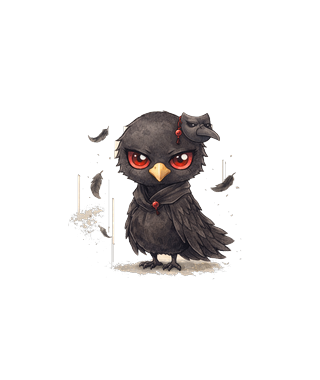
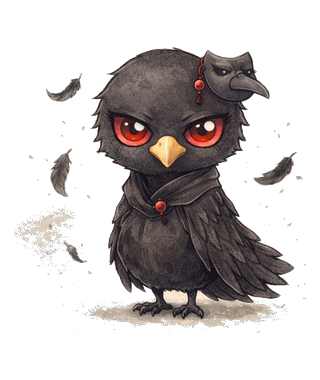
Enlarge PNG characters: tighter crop, 92% fill, bigger SVG wrapper

diff --git a/characters.js b/characters.js
@@ -44,7 +44,7 @@ const CHARACTERS = {
 <svg width="320" height="380" viewBox="0 0 320 380" xmlns="http://www.w3.org/2000/svg" xmlns:xlink="http://www.w3.org/1999/xlink">
   <g class="char-float">
     <g class="char-body">
-      <image href="/chars/shiro.png" x="40" y="30" width="240" height="320"/>
+      <image href="/chars/shiro.png" x="10" y="0" width="300" height="380"/>
     </g>
   </g>
 </svg>`
@@ -66,7 +66,7 @@ const CHARACTERS = {
 <svg width="320" height="380" viewBox="0 0 320 380" xmlns="http://www.w3.org/2000/svg" xmlns:xlink="http://www.w3.org/1999/xlink">
   <g class="char-float">
     <g class="char-body">
-      <image href="/chars/karasu.png" x="40" y="30" width="240" height="320"/>
+      <image href="/chars/karasu.png" x="10" y="0" width="300" height="380"/>
     </g>
   </g>
 </svg>`
@@ -88,7 +88,7 @@ const CHARACTERS = {
 <svg width="320" height="380" viewBox="0 0 320 380" xmlns="http://www.w3.org/2000/svg" xmlns:xlink="http://www.w3.org/1999/xlink">
   <g class="char-float">
     <g class="char-body">
-      <image href="/chars/kyubi.png" x="40" y="30" width="240" height="320"/>
+      <image href="/chars/kyubi.png" x="10" y="0" width="300" height="380"/>
     </g>
   </g>
 </svg>`
@@ -110,7 +110,7 @@ const CHARACTERS = {
 <svg width="320" height="380" viewBox="0 0 320 380" xmlns="http://www.w3.org/2000/svg" xmlns:xlink="http://www.w3.org/1999/xlink">
   <g class="char-float">
     <g class="char-body">
-      <image href="/chars/tanuki.png" x="40" y="30" width="240" height="320"/>
+      <image href="/chars/tanuki.png" x="10" y="0" width="300" height="380"/>
     </g>
   </g>
 </svg>`
@@ -132,7 +132,7 @@ const CHARACTERS = {
 <svg width="320" height="380" viewBox="0 0 320 380" xmlns="http://www.w3.org/2000/svg" xmlns:xlink="http://www.w3.org/1999/xlink">
   <g class="char-float">
     <g class="char-body">
-      <image href="/chars/koi.png" x="40" y="30" width="240" height="320"/>
+      <image href="/chars/koi.png" x="10" y="0" width="300" height="380"/>
     </g>
   </g>
 </svg>`
@@ -154,7 +154,7 @@ const CHARACTERS = {
 <svg width="320" height="380" viewBox="0 0 320 380" xmlns="http://www.w3.org/2000/svg" xmlns:xlink="http://www.w3.org/1999/xlink">
   <g class="char-float">
     <g class="char-body">
-      <image href="/chars/kappa.png" x="40" y="30" width="240" height="320"/>
+      <image href="/chars/kappa.png" x="10" y="0" width="300" height="380"/>
     </g>
   </g>
 </svg>`
@@ -176,7 +176,7 @@ const CHARACTERS = {
 <svg width="320" height="380" viewBox="0 0 320 380" xmlns="http://www.w3.org/2000/svg" xmlns:xlink="http://www.w3.org/1999/xlink">
   <g class="char-float">
     <g class="char-body">
-      <image href="/chars/kodama.png" x="40" y="30" width="240" height="320"/>
+      <image href="/chars/kodama.png" x="10" y="0" width="300" height="380"/>
     </g>
   </g>
 </svg>`
@@ -198,7 +198,7 @@ const CHARACTERS = {
 <svg width="320" height="380" viewBox="0 0 320 380" xmlns="http://www.w3.org/2000/svg" xmlns:xlink="http://www.w3.org/1999/xlink">
   <g class="char-float">
     <g class="char-body">
-      <image href="/chars/oni.png" x="40" y="30" width="240" height="320"/>
+      <image href="/chars/oni.png" x="10" y="0" width="300" height="380"/>
     </g>
   </g>
 </svg>`
@@ -220,7 +220,7 @@ const CHARACTERS = {
 <svg width="320" height="380" viewBox="0 0 320 380" xmlns="http://www.w3.org/2000/svg" xmlns:xlink="http://www.w3.org/1999/xlink">
   <g class="char-float">
     <g class="char-body">
-      <image href="/chars/baku.png" x="40" y="30" width="240" height="320"/>
+      <image href="/chars/baku.png" x="10" y="0" width="300" height="380"/>
     </g>
   </g>
 </svg>`
@@ -242,7 +242,7 @@ const CHARACTERS = {
 <svg width="320" height="380" viewBox="0 0 320 380" xmlns="http://www.w3.org/2000/svg" xmlns:xlink="http://www.w3.org/1999/xlink">
   <g class="char-float">
     <g class="char-body">
-      <image href="/chars/raijin_wolf.png" x="40" y="30" width="240" height="320"/>
+      <image href="/chars/raijin_wolf.png" x="10" y="0" width="300" height="380"/>
     </g>
   </g>
 </svg>`
